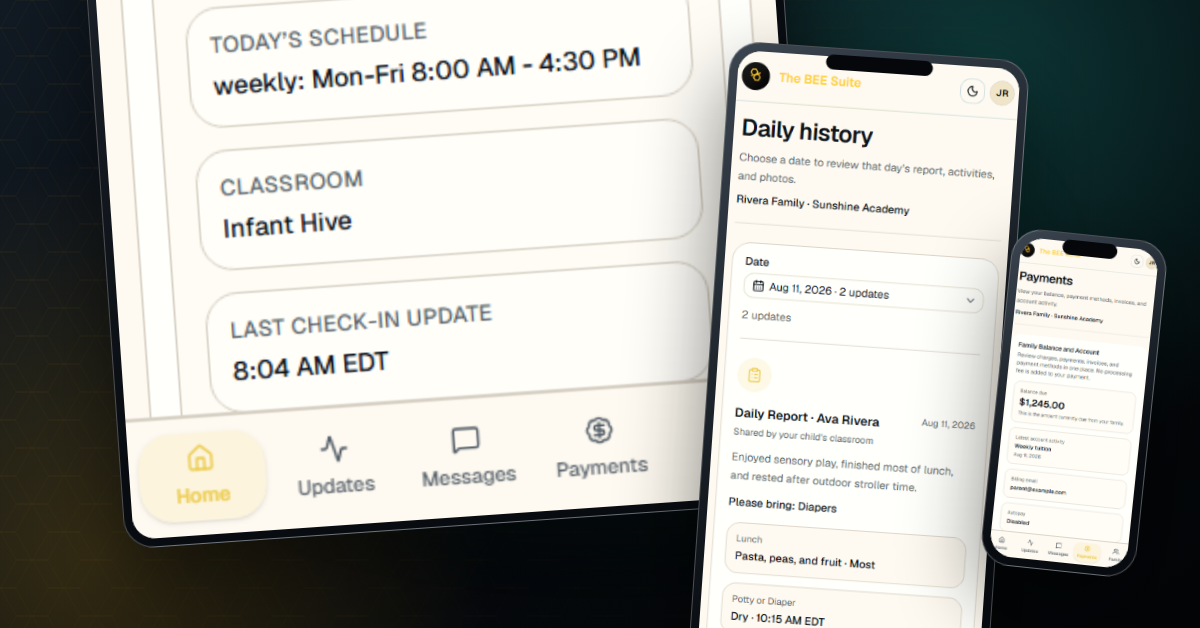
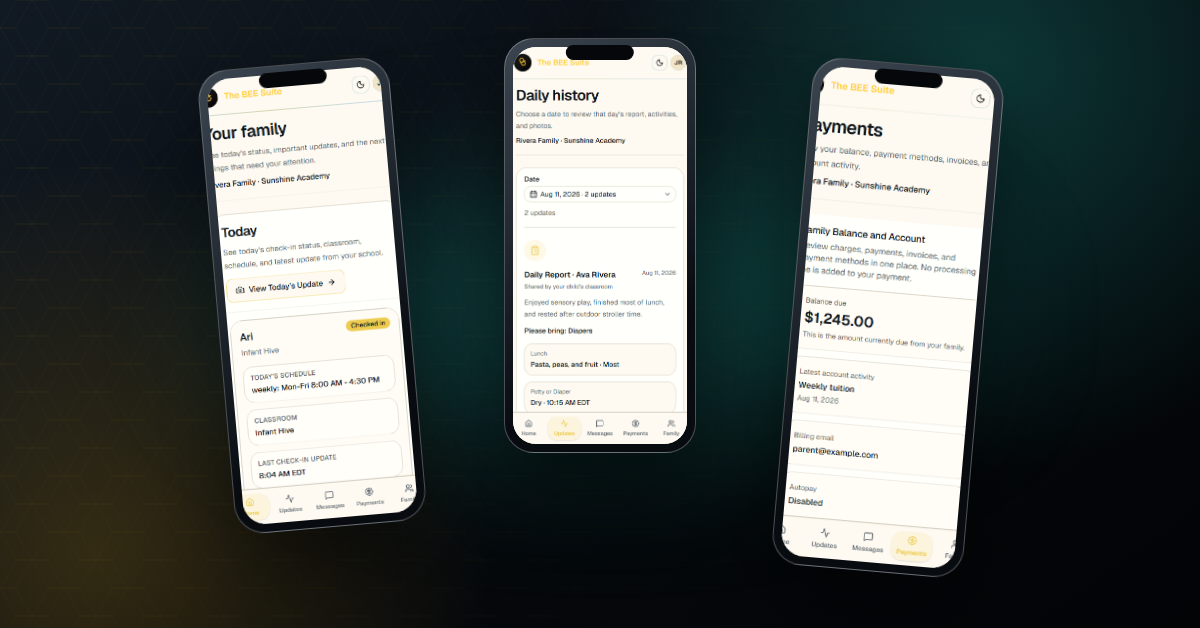
Address campaign review feedback

diff --git a/tests/marketing-creative-pack.test.ts b/tests/marketing-creative-pack.test.ts
@@ -16,6 +16,7 @@ const manifest = JSON.parse(
   releaseVersion: string;
   concepts: Array<{
     id: string;
+    landingPage: string;
     copy: {
       platformCopy: {
         google: {
@@ -138,4 +139,22 @@ test("campaign copy avoids unsupported claims and the review library is complete
       assert.match(review, new RegExp(creative.file.replaceAll(".", "\\.")));
     }
   }
+});
+
+test("campaign destinations and calculator navigation match their promised actions", () => {
+  const calculator = manifest.concepts.find(
+    (concept) => concept.id === "model-fragmentation-cost",
+  );
+  assert.ok(calculator);
+  assert.equal(
+    calculator.landingPage,
+    "https://thebeesuite.io/brand/the-bee-suite/marketing/current/savings-calculator.html",
+  );
+
+  const calculatorPage = readFileSync(
+    path.join(releaseDir, "savings-calculator.html"),
+    "utf8",
+  );
+  assert.match(calculatorPage, /class="brand" href="\/"/);
+  assert.match(calculatorPage, /class="back" href="\/">← Product site<\/a>/);
 });

diff --git a/public/brand/the-bee-suite/marketing/current/savings-calculator.html b/public/brand/the-bee-suite/marketing/current/savings-calculator.html
@@ -47,8 +47,8 @@
 <body>
   <main>
     <nav>
-      <a class="brand" href="index.html"><span class="mark">⬡</span><span>The BEE Suite</span></a>
-      <a class="back" href="index.html">← Creative library</a>
+      <a class="brand" href="/"><span class="mark">⬡</span><span>The BEE Suite</span></a>
+      <a class="back" href="/">← Product site</a>
     </nav>
     <header>
       <span class="eyebrow">Interactive planning model</span>

diff --git a/docs/BEE_SUITE_SOCIAL_AND_PAID_CAMPAIGN_LIBRARY.md b/docs/BEE_SUITE_SOCIAL_AND_PAID_CAMPAIGN_LIBRARY.md
@@ -387,7 +387,7 @@ The real cost of disconnected tools is not just another subscription. It is the 
 **Campaign ID:** `model-fragmentation-cost`
 **Audience:** Childcare owners, finance leaders, and multi-location operators
 **Goal:** Drive engagement with a transparent cost-comparison tool
-**Landing page:** https://thebeesuite.io
+**Landing page:** https://thebeesuite.io/brand/the-bee-suite/marketing/current/savings-calculator.html
 
 ### Organic social caption
 
